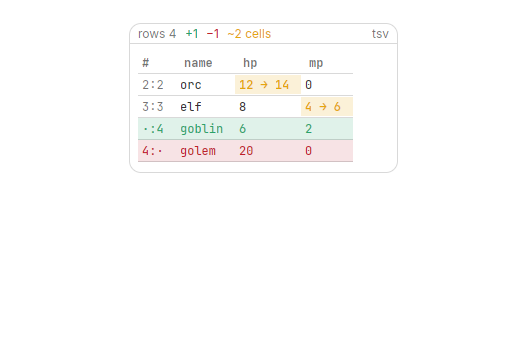
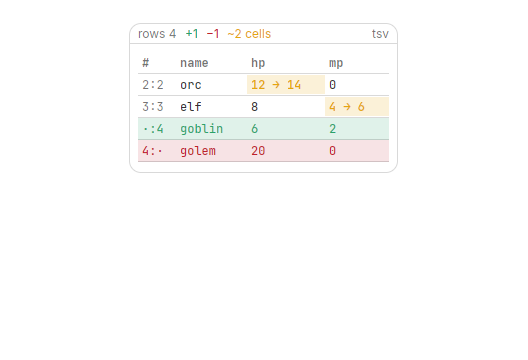
fix(data-table): stretch columns to full width via colStyle flexGrow, gate header labels on hasHeader, add isNumericCell

diff --git a/src/components/DataTable.tsx b/src/components/DataTable.tsx
@@ -80,11 +80,18 @@ export function DataTable({
 
   const tableWidth = gutterWidth + colWidths.reduce((a, b) => a + b, 0);
 
-  const cellStyle = (width: number): StyleDesc => ({
+  
+  
+  const colStyle = (width: number): StyleDesc => ({
     width,
+    flexGrow: 1,
     flexShrink: 0,
     paddingLeft: pad / 2,
     paddingRight: pad / 2,
+  });
+
+  const cellStyle = (): StyleDesc => ({
+    width: "100%",
     whiteSpace: "nowrap",
     textOverflow: "ellipsis",
     overflow: "hidden",
@@ -173,7 +180,8 @@ export function DataTable({
           style={{
             display: "flex",
             flexDirection: "column",
-            width: tableWidth,
+            width: "100%",
+            minWidth: tableWidth,
             flexShrink: 0,
           }}
         >
@@ -207,12 +215,12 @@ export function DataTable({
               </T>
             </div>
             {aligned.header.map((label, c) => (
-              <div key={c} style={cellStyle(colWidths[c] as number)}>
+              <div key={c} style={colStyle(colWidths[c] as number)}>
                 <T
                   size="caption"
                   weight={700}
                   color={colors.dim_fg}
-                  style={cellStyle(colWidths[c] as number)}
+                  style={cellStyle()}
                 >
                   {label}
                 </T>
@@ -275,8 +283,7 @@ export function DataTable({
                         <div
                           key={c}
                           style={{
-                            width: colWidths[c],
-                            flexShrink: 0,
+                            ...colStyle(colWidths[c] as number),
                             backgroundColor: cell.changed
                               ? colors.warningTint
                               : "transparent",
@@ -286,7 +293,7 @@ export function DataTable({
                             size="caption"
                             color={cell.changed ? colors.warning : colors.fg}
                             weight={cell.changed ? 600 : 400}
-                            style={cellStyle(colWidths[c] as number)}
+                            style={cellStyle()}
                           >
                             {cell.changed
                               ? `${cell.old} → ${cell.next}`
@@ -296,10 +303,7 @@ export function DataTable({
                       ) : null,
                     )
                   : r.cells.map((v, c) => (
-                      <div
-                        key={c}
-                        style={{ width: colWidths[c], flexShrink: 0 }}
-                      >
+                      <div style={colStyle(colWidths[c] as number)} key={c}>
                         <T
                           size="caption"
                           color={
@@ -307,7 +311,7 @@ export function DataTable({
                               ? colors.success
                               : colors.destructive
                           }
-                          style={cellStyle(colWidths[c] as number)}
+                          style={cellStyle()}
                         >
                           {v}
                         </T>

diff --git a/src/lib/tabular/align.ts b/src/lib/tabular/align.ts
@@ -28,7 +28,15 @@ function padRow(row: string[], cols: number): string[] {
   return out;
 }
 
-function pickHeaderSrc(oldRows: string[][], nextRows: string[][]): string[] {
+
+
+
+function pickHeaderSrc(
+  oldRows: string[][],
+  nextRows: string[][],
+  hasHeader: boolean,
+): string[] {
+  if (!hasHeader) return [];
   if (nextRows.length > 0) return nextRows[0] as string[];
   if (oldRows.length > 0) return oldRows[0] as string[];
   return [];
@@ -165,7 +173,7 @@ export function alignTables(
 ): AlignedTable {
   const oldData = hasHeader ? oldRows.slice(1) : oldRows;
   const nextData = hasHeader ? nextRows.slice(1) : nextRows;
-  const headerSrc = pickHeaderSrc(oldRows, nextRows);
+  const headerSrc = pickHeaderSrc(oldRows, nextRows, hasHeader);
   const cols = computeCols(headerSrc, oldData, nextData);
   const header = buildHeader(headerSrc, cols);
   const queues = buildRowKeyQueues(oldData);

diff --git a/src/lib/tabular/sides.ts b/src/lib/tabular/sides.ts
@@ -8,14 +8,19 @@ export interface TabularSides {
   hasHeader: boolean;
 }
 
+function isNumericCell(value: string): boolean {
+  const k = value.trim();
+  return k !== "" && Number.isFinite(Number(k));
+}
+
+
+
+
 function hasHeaderRow(rows: string[][]): boolean {
-  return (
-    rows.length > 1 &&
-    rows.every((r) => {
-      const k = (r[0] ?? "").trim();
-      return k !== "" && !Number.isFinite(Number(k));
-    })
-  );
+  if (rows.length < 2) return false;
+  const first = rows[0];
+  if (!first || first.length === 0) return false;
+  return first.every((v) => v.trim() !== "" && !isNumericCell(v));
 }
 
 export function parseTabularSides(
